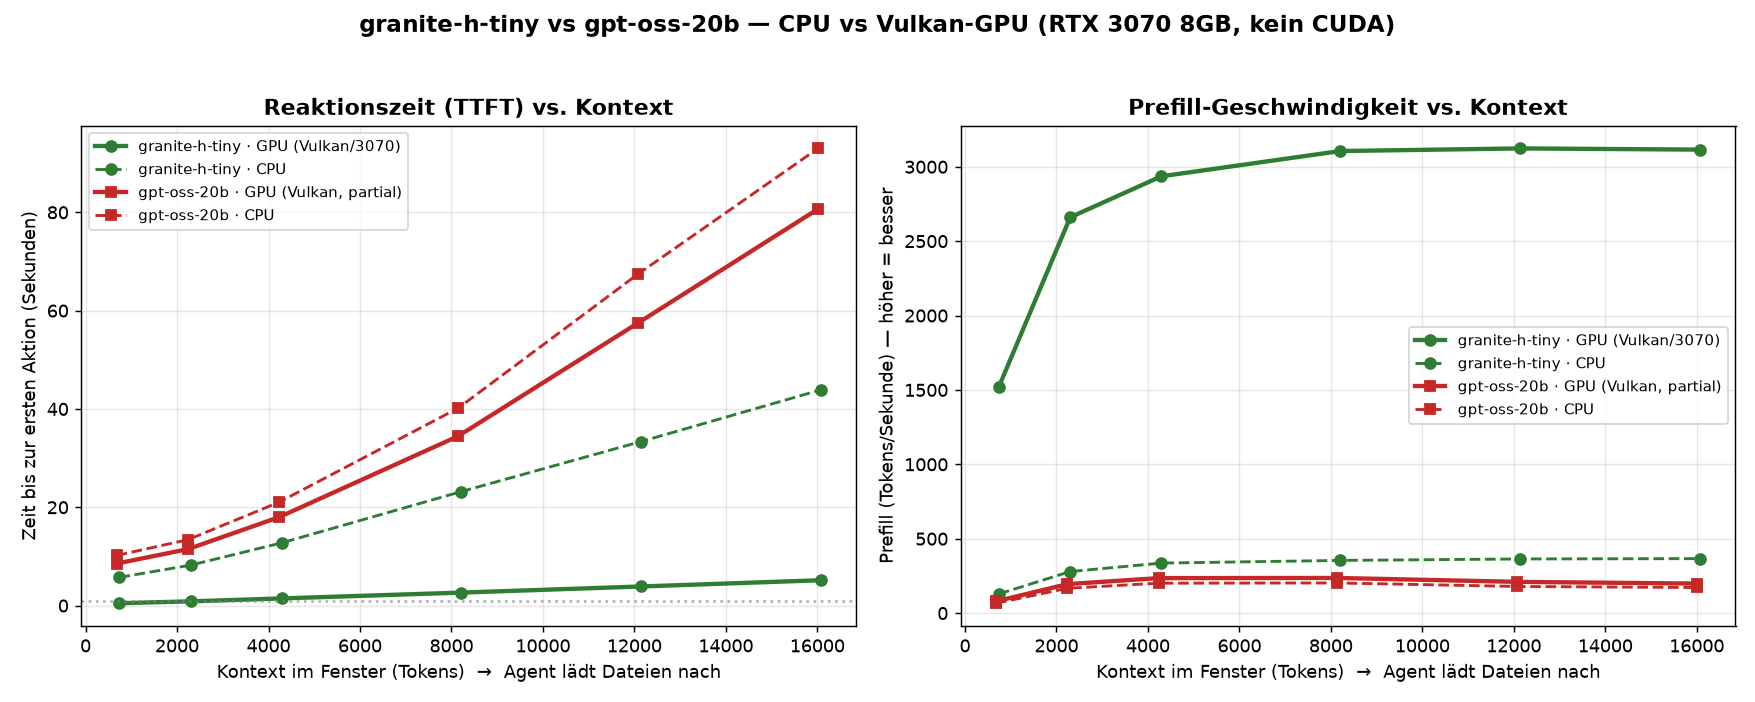
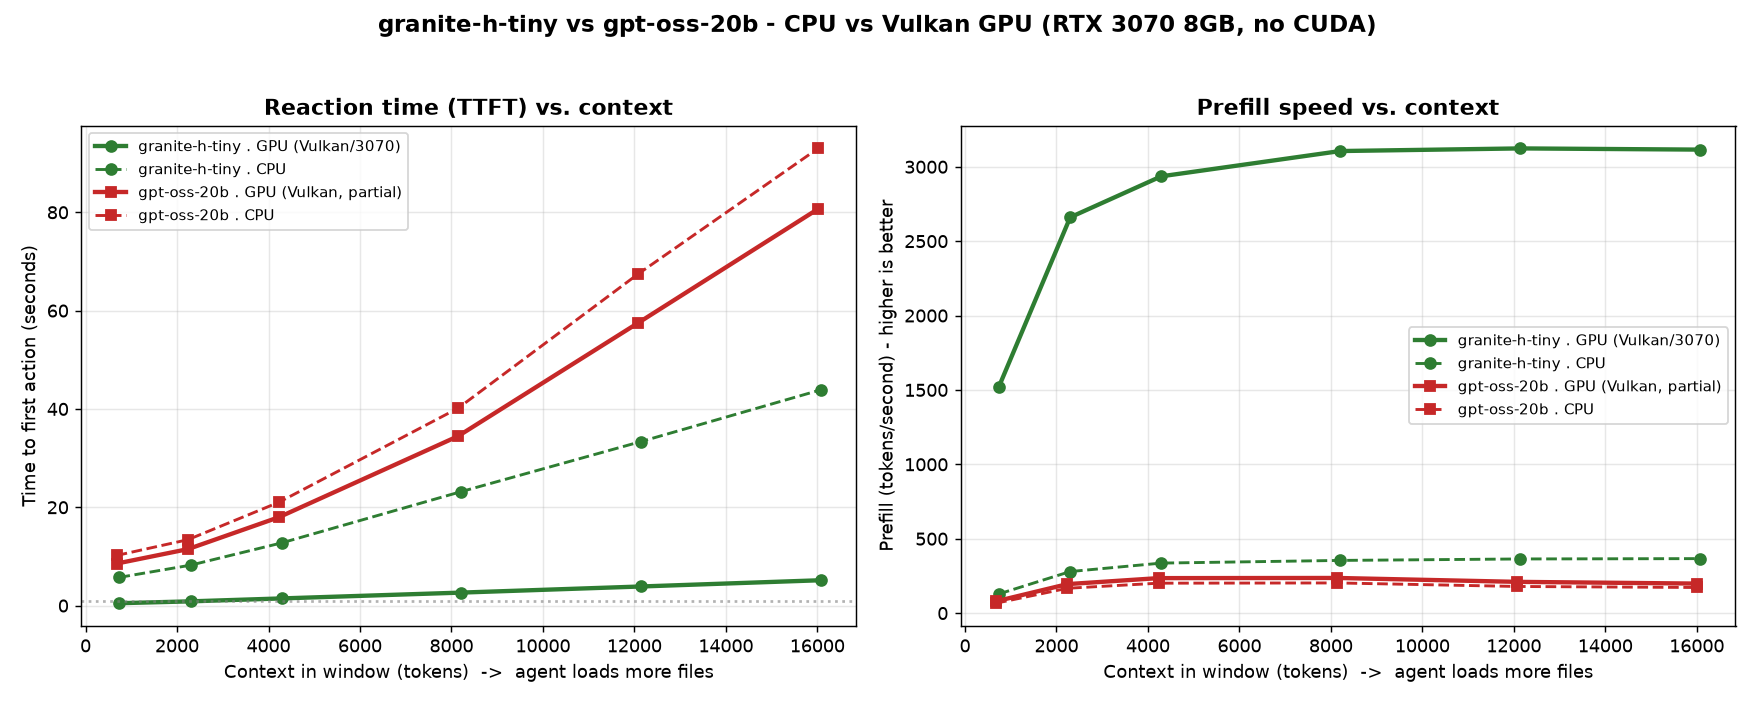
bench: switch benchmark charts + plot scripts to English labels
Regenerated htiny-vs-gptoss-cpu-context.png and htiny-vs-gptoss-cpu-vs-vulkan.png
with English titles/axes/legends; updated the plot scripts accordingly. No data
changes.

Claude-Session: https://claude.ai/code/session_01JLccGn2dcCk7vqvBCTFWHd

diff --git a/docs/ai-index-benchmark/tools/plot-context-curves.py b/docs/ai-index-benchmark/tools/plot-context-curves.py
@@ -7,55 +7,43 @@ tsv, outpng = sys.argv[1], sys.argv[2]
 rows = [r for r in csv.DictReader(open(tsv), delimiter="\t")
         if (r.get("prompt_n") or "").isdigit() and (r.get("ttft_ms") or "").lstrip("-").isdigit()]
 
-series = {}  # model -> list of (ctx, ttft_s, prefill_tps, decode_tps)
+series = {}
 for r in rows:
-    m = r["model"]
-    series.setdefault(m, []).append((
+    series.setdefault(r["model"], []).append((
         int(r["prompt_n"]),
         int(r["ttft_ms"]) / 1000.0,
         float(r["prefill_tps"]) if r["prefill_tps"] not in ("NA", "") else None,
-        float(r["decode_tps"]) if r["decode_tps"] not in ("NA", "") else None,
     ))
 for m in series:
     series[m].sort()
 
 label = {
-    "granite-4.0-h-tiny-Q4_K_M.gguf": "granite-4.0-h-tiny (1B-akt, HYBRID/Mamba)",
-    "gpt-oss-20b-mxfp4.gguf": "gpt-oss-20b (3.6B-akt, Transformer)",
+    "granite-4.0-h-tiny-Q4_K_M.gguf": "granite-4.0-h-tiny (1B-active, HYBRID/Mamba)",
+    "gpt-oss-20b-mxfp4.gguf": "gpt-oss-20b (3.6B-active, Transformer)",
 }
 color = {"granite-4.0-h-tiny-Q4_K_M.gguf": "#2e7d32", "gpt-oss-20b-mxfp4.gguf": "#c62828"}
 
 fig, (ax1, ax2) = plt.subplots(1, 2, figsize=(13, 5.2))
-
 for m, pts in series.items():
     xs = [p[0] for p in pts]
-    ax1.plot(xs, [p[1] for p in pts], "o-", color=color.get(m, None), label=label.get(m, m), linewidth=2, markersize=6)
+    ax1.plot(xs, [p[1] for p in pts], "o-", color=color.get(m), label=label.get(m, m), linewidth=2, markersize=6)
     pf = [(p[0], p[2]) for p in pts if p[2] is not None]
     if pf:
-        ax2.plot([p[0] for p in pf], [p[1] for p in pf], "o-", color=color.get(m, None), label=label.get(m, m), linewidth=2, markersize=6)
+        ax2.plot([p[0] for p in pf], [p[1] for p in pf], "o-", color=color.get(m), label=label.get(m, m), linewidth=2, markersize=6)
 
-ax1.set_title("Reaktionszeit (TTFT) vs. Kontext  —  CPU (Ryzen 7 5800H)", fontsize=12, weight="bold")
-ax1.set_xlabel("Kontext im Fenster (Tokens)  →  Agent lädt Dateien nach")
-ax1.set_ylabel("Zeit bis zur ersten Aktion (Sekunden)")
+ax1.set_title("Reaction time (TTFT) vs. context  —  CPU (Ryzen 7 5800H)", fontsize=12, weight="bold")
+ax1.set_xlabel("Context in window (tokens)  ->  agent loads more files")
+ax1.set_ylabel("Time to first action (seconds)")
 ax1.grid(True, alpha=0.3); ax1.legend(fontsize=9)
 ax1.axhline(y=5, color="gray", ls=":", alpha=0.6)
-ax1.text(ax1.get_xlim()[1]*0.02, 5.3, "~5 s: Grenze noch erträglich", fontsize=8, color="gray")
+ax1.text(ax1.get_xlim()[1]*0.02, 5.3, "~5s: still tolerable", fontsize=8, color="gray")
 
-ax2.set_title("Prefill-Geschwindigkeit vs. Kontext  —  CPU", fontsize=12, weight="bold")
-ax2.set_xlabel("Kontext im Fenster (Tokens)")
-ax2.set_ylabel("Prefill (Tokens/Sekunde)  —  höher = besser")
+ax2.set_title("Prefill speed vs. context  —  CPU", fontsize=12, weight="bold")
+ax2.set_xlabel("Context in window (tokens)")
+ax2.set_ylabel("Prefill (tokens/second)  —  higher is better")
 ax2.grid(True, alpha=0.3); ax2.legend(fontsize=9)
 
-fig.suptitle("Agentisch mit wachsendem Kontext: wann überwiegt welches Modell? (CPU)", fontsize=13, weight="bold")
+fig.suptitle("Agentic with growing context: which model wins when? (CPU)", fontsize=13, weight="bold")
 fig.tight_layout(rect=[0, 0, 1, 0.96])
 fig.savefig(outpng, dpi=130)
 print("wrote", outpng)
-
-# also print a small crossover analysis
-gt = dict((p[0], p[1]) for p in series.get("gpt-oss-20b-mxfp4.gguf", []))
-ht = dict((p[0], p[1]) for p in series.get("granite-4.0-h-tiny-Q4_K_M.gguf", []))
-print("ctx\th-tiny_ttft_s\tgptoss_ttft_s\twinner")
-for c in sorted(set(list(gt) + list(ht))):
-    a = ht.get(c); b = gt.get(c)
-    w = "-" if a is None or b is None else ("h-tiny" if a < b else "gpt-oss")
-    print(f"{c}\t{a}\t{b}\t{w}")

diff --git a/docs/ai-index-benchmark/tools/plot-cpu-vs-gpu-curves.py b/docs/ai-index-benchmark/tools/plot-cpu-vs-gpu-curves.py
@@ -22,10 +22,10 @@ def load(path, model_filter=None):
 HT = "granite-4.0-h-tiny-Q4_K_M.gguf"
 GO = "gpt-oss-20b-mxfp4.gguf"
 series = [
-    ("granite-h-tiny · GPU (Vulkan/3070)", load(htiny_vk, HT), "#2e7d32", "-", 2.4, "o"),
-    ("granite-h-tiny · CPU",               load(cpu_tsv, HT),  "#2e7d32", "--", 1.6, "o"),
-    ("gpt-oss-20b · GPU (Vulkan, partial)", load(gptoss_vk, GO), "#c62828", "-", 2.4, "s"),
-    ("gpt-oss-20b · CPU",                  load(cpu_tsv, GO),  "#c62828", "--", 1.6, "s"),
+    ("granite-h-tiny . GPU (Vulkan/3070)", load(htiny_vk, HT), "#2e7d32", "-", 2.4, "o"),
+    ("granite-h-tiny . CPU",               load(cpu_tsv, HT),  "#2e7d32", "--", 1.6, "o"),
+    ("gpt-oss-20b . GPU (Vulkan, partial)", load(gptoss_vk, GO), "#c62828", "-", 2.4, "s"),
+    ("gpt-oss-20b . CPU",                  load(cpu_tsv, GO),  "#c62828", "--", 1.6, "s"),
 ]
 
 fig, (ax1, ax2) = plt.subplots(1, 2, figsize=(13.5, 5.4))
@@ -39,14 +39,14 @@ for name, pts, col, ls, lw, mk in series:
 
 for ax in (ax1, ax2):
     ax.grid(True, alpha=0.3); ax.legend(fontsize=8.5)
-    ax.set_xlabel("Kontext im Fenster (Tokens)  →  Agent lädt Dateien nach")
-ax1.set_title("Reaktionszeit (TTFT) vs. Kontext", fontsize=12, weight="bold")
-ax1.set_ylabel("Zeit bis zur ersten Aktion (Sekunden)")
+    ax.set_xlabel("Context in window (tokens)  ->  agent loads more files")
+ax1.set_title("Reaction time (TTFT) vs. context", fontsize=12, weight="bold")
+ax1.set_ylabel("Time to first action (seconds)")
 ax1.axhline(y=1, color="gray", ls=":", alpha=0.6)
-ax2.set_title("Prefill-Geschwindigkeit vs. Kontext", fontsize=12, weight="bold")
-ax2.set_ylabel("Prefill (Tokens/Sekunde) — höher = besser")
+ax2.set_title("Prefill speed vs. context", fontsize=12, weight="bold")
+ax2.set_ylabel("Prefill (tokens/second) - higher is better")
 
-fig.suptitle("granite-h-tiny vs gpt-oss-20b — CPU vs Vulkan-GPU (RTX 3070 8GB, kein CUDA)", fontsize=13, weight="bold")
+fig.suptitle("granite-h-tiny vs gpt-oss-20b - CPU vs Vulkan GPU (RTX 3070 8GB, no CUDA)", fontsize=13, weight="bold")
 fig.tight_layout(rect=[0, 0, 1, 0.95])
 fig.savefig(outpng, dpi=130)
 print("wrote", outpng)